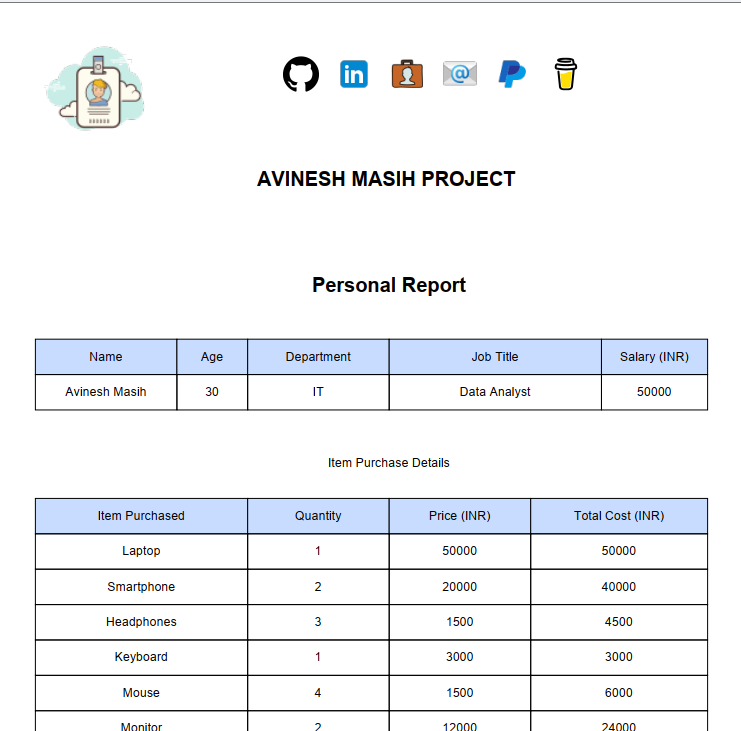
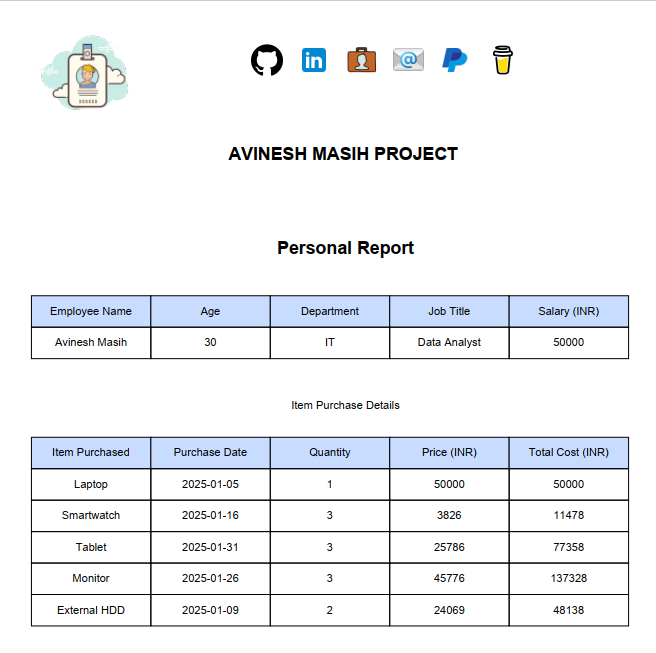
Add CI workflow, .gitignore, and documentation files; enhance report generation and testing

diff --git a/generate_employee_reports.py b/generate_employee_reports.py
@@ -16,8 +16,16 @@ def create_folder(folder_name):
     if not os.path.exists(folder_name):
         os.makedirs(folder_name)
 
+# Function to find the employee name column
+def find_employee_name_column(dataframe):
+    possible_columns = ['Employee Name', 'Name', 'Full Name']
+    for column in possible_columns:
+        if column in dataframe.columns:
+            return column
+    raise ValueError("No valid employee name column found.")
+
 # Function to generate the PDF report
-def generate_report(person_data, purchase_data, output_path):
+def generate_report(person_data, purchase_data, output_path, employee_name_column):
     pdf = FPDF()
     pdf.set_auto_page_break(auto=True, margin=15)
     pdf.add_page()
@@ -51,19 +59,16 @@ def generate_report(person_data, purchase_data, output_path):
     # Add formatted table with employee details
     pdf.set_font("Arial", size=10)
     pdf.set_fill_color(200, 220, 255)
-    pdf.cell(40, 10, 'Name', border=1, align='C', fill=True)
-    pdf.cell(20, 10, 'Age', border=1, align='C', fill=True)
-    pdf.cell(40, 10, 'Department', border=1, align='C', fill=True)
-    pdf.cell(60, 10, 'Job Title', border=1, align='C', fill=True)
-    pdf.cell(30, 10, 'Salary (INR)', border=1, align='C', fill=True)
+    
+    # Dynamically add headers based on the columns in person_data
+    column_width = 190 / len(person_data.columns)  # Adjust column width to fit within page margins
+    for column in person_data.columns:
+        pdf.cell(column_width, 10, column, border=1, align='C', fill=True)
     pdf.ln()
 
     for index, row in person_data.iterrows():
-        pdf.cell(40, 10, row['Employee Name'], border=1, align='C')
-        pdf.cell(20, 10, str(row['Age']), border=1, align='C')
-        pdf.cell(40, 10, row['Department'], border=1, align='C')
-        pdf.cell(60, 10, row['Job Title'], border=1, align='C')
-        pdf.cell(30, 10, str(row['Salary (INR)']), border=1, align='C')
+        for column in person_data.columns:
+            pdf.cell(column_width, 10, str(row[column]), border=1, align='C')
         pdf.ln()
 
     pdf.ln(10)
@@ -73,26 +78,27 @@ def generate_report(person_data, purchase_data, output_path):
     # Add formatted table with purchase details
     pdf.set_font("Arial", size=10)
     pdf.set_fill_color(200, 220, 255)
-    pdf.cell(60, 10, 'Item Purchased', border=1, align='C', fill=True)
-    pdf.cell(40, 10, 'Quantity', border=1, align='C', fill=True)
-    pdf.cell(40, 10, 'Price (INR)', border=1, align='C', fill=True)
-    pdf.cell(50, 10, 'Total Cost (INR)', border=1, align='C', fill=True)
+    
+    # Remove the employee name column from purchase_data
+    purchase_data = purchase_data.drop(columns=[employee_name_column])
+    
+    # Dynamically add headers based on the columns in purchase_data
+    column_width = 190 / len(purchase_data.columns)  # Adjust column width to fit within page margins
+    for column in purchase_data.columns:
+        pdf.cell(column_width, 10, column, border=1, align='C', fill=True)
     pdf.ln()
 
     for index, row in purchase_data.iterrows():
-        pdf.cell(60, 10, row['Item Purchased'], border=1, align='C')
-        pdf.cell(40, 10, str(row['Quantity']), border=1, align='C')
-        pdf.cell(40, 10, str(row['Price (INR)']), border=1, align='C')
-        pdf.cell(50, 10, str(row['Total Cost (INR)']), border=1, align='C')
+        for column in purchase_data.columns:
+            pdf.cell(column_width, 10, str(row[column]), border=1, align='C')
         pdf.ln()
-
 
     # Output the PDF
     pdf.output(output_path)
 
 # Main function
 def main():
-    excel_file = "assets\employees.xlsx"  # Replace with your file path
+    excel_file = "assets/employees.xlsx"  # Replace with your file path
     data = read_excel(excel_file)
 
     if data is None:
@@ -103,17 +109,19 @@ def main():
     employee_data = data['Employee Data']
     purchase_data = data['Item Purchases']
 
-    # Ensure the column names are correct
-    print("Employee Data Columns:", employee_data.columns)
-    print("Purchase Data Columns:", purchase_data.columns)
+    # Find the employee name column
+    employee_name_column = find_employee_name_column(employee_data)
 
     overwrite_all = False
 
     # Create a folder for each employee and generate their reports
     for index, row in employee_data.iterrows():
-        person_name = row['Employee Name']  # Employee name is used as folder name
+        person_name = row[employee_name_column]  # Employee name is used as folder name
         folder_name = f"reports/{person_name}"
         create_folder(folder_name)
+
+        # Filter purchase data for the specific employee
+        employee_purchase_data = purchase_data[purchase_data[employee_name_column] == person_name]
 
         # Generate the PDF report with employee details
         report_path = os.path.join(folder_name, f"{person_name}_report.pdf")
@@ -126,7 +134,7 @@ def main():
             elif overwrite.lower() == 'all':
                 overwrite_all = True
 
-        generate_report(employee_data[employee_data['Employee Name'] == person_name], purchase_data, report_path)
+        generate_report(employee_data[employee_data[employee_name_column] == person_name], employee_purchase_data, report_path, employee_name_column)
 
         print(f"Report generated for {person_name} at {report_path}")
 

diff --git a/tests/test_generate_report.py b/tests/test_generate_report.py
@@ -1,0 +1,27 @@
+import unittest
+import pandas as pd
+import os
+from generate_employee_reports import read_excel, find_employee_name_column, generate_report, create_folder
+
+class TestGenerateReport(unittest.TestCase):
+
+    def test_read_excel(self):
+        data = read_excel('assets/employees.xlsx')
+        self.assertIsNotNone(data)
+        self.assertIn('Employee Data', data)
+        self.assertIn('Item Purchases', data)
+
+    def test_find_employee_name_column(self):
+        data = pd.DataFrame({'Employee Name': ['John Doe', 'Jane Doe']})
+        column = find_employee_name_column(data)
+        self.assertEqual(column, 'Employee Name')
+
+    def test_generate_report(self):
+        person_data = pd.DataFrame({'Employee Name': ['John Doe'], 'Age': [30]})
+        purchase_data = pd.DataFrame({'Employee Name': ['John Doe'], 'Item': ['Laptop'], 'Price': [1000]})
+        create_folder('reports/John_Doe')
+        generate_report(person_data, purchase_data, 'reports/John_Doe/John_Doe_report.pdf', 'Employee Name')
+        self.assertTrue(os.path.exists('reports/John_Doe/John_Doe_report.pdf'))
+
+if __name__ == '__main__':
+    unittest.main()

diff --git a/README.md b/README.md
@@ -35,13 +35,19 @@ cd employee-report-generator
 ```
 
 ## Required Python Libraries:
-Install the necessary Python libraries used in this script. 
-You can do this by running the following commands in your terminal or command prompt:
+Install the necessary Python libraries used in this script by using the `requirements.txt` file. 
+
+```
+pip install -r requirements.txt
+```
+
+Or you can also do this by running the following command in your terminal or command prompt:
 ```
 pip install pandas
 pip install fpdf
 pip install openpyxl
 ```
+
 ---
 
 ## Usage
@@ -86,8 +92,19 @@ python generate_employee_reports.py
 ## Project Structure
 
 - `generate_employee_reports.py` : Main script for reading Excel data and generating PDF reports.
-- `assets/` : Folder containing the Excel file and other assets like the company logo.
+- `assets/` : Folder containing the Excel file and other assets like the company logo and icons.
 - `reports/` : Folder where the generated PDF reports will be saved.
+- `tests/` : Folder containing unit test scripts to verify the functionality of the main script.
+- `.github/workflows/` : Folder containing GitHub Actions workflow files for continuous integration.
+- `.gitignore` : File specifying files and directories to be ignored by Git.
+- `Dockerfile` : File for containerizing the application using Docker.
+- `Makefile` : File for automating common tasks such as running tests and installing dependencies.
+- `README.md` : File providing an overview of the project, installation instructions, usage, and other relevant information.
+- `requirements.txt` : File listing the dependencies required for the project.
+- `CONTRIBUTING.md` : File outlining guidelines for contributing to the project.
+- `CODE_OF_CONDUCT.md` : File setting expectations for behavior in the project community.
+- `LICENSE` : File specifying the license under which the project is distributed.
+- `CHANGELOG.md` : File documenting the changes and new features in each version of the project.
 
 ---
 

diff --git a/CODE_OF_CONDUCT.md b/CODE_OF_CONDUCT.md
@@ -1,0 +1,5 @@
+# Code of Conduct
+
+## Our Pledge
+
+We as members, contributors, and leaders pledge to make participation in our community a harassment-free experience for everyone, regardless of age, body size, visible or invisible disability, ethnicity, sex characteristics, gender identity and expression, level of experience, education, socio-economic status, nationality, personal appearance, race, religion, or sexual identity and orientation.

diff --git a/CONTRIBUTING.md b/CONTRIBUTING.md
@@ -1,0 +1,14 @@
+# Contributing to Employee Report Generator
+
+## How to Contribute
+
+1. Fork the repository.
+2. Create a new branch (`git checkout -b feature-branch`).
+3. Make your changes.
+4. Commit your changes (`git commit -am 'Add new feature'`).
+5. Push to the branch (`git push origin feature-branch`).
+6. Create a pull request.
+
+## Code of Conduct
+
+Please read `CODE_OF_CONDUCT.md` for details on our code of conduct.
